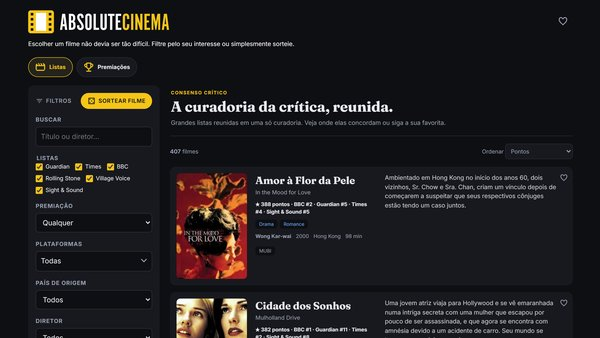
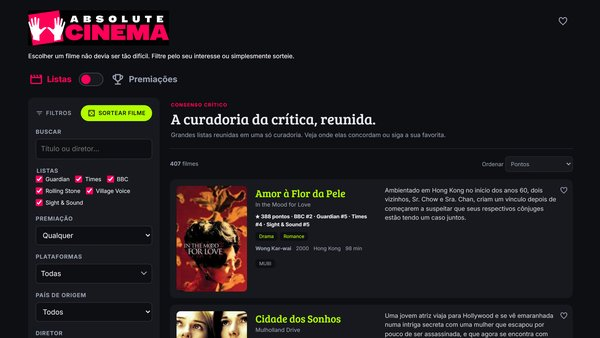
Adiciona PhonoProject e Blague ao portfolio e refina o grid
- Novos itens PhonoProject e Blague na lista, com thumbnails desktop/mobile
- Print do AbsoluteCinema atualizado para o layout atual
- Portfolio vira grid de 2 colunas a partir de 1370px
- Thumbnails passam a preencher a coluna via flex, com aspect-ratio
  preservado e teto na dimensao nativa (600px/200px)
- Borda 1px nos cards do portfolio

diff --git a/style.css b/style.css
@@ -928,7 +928,8 @@ main {
     }
 
     li {
-        padding: 1rem 0;
+        padding: 50px 0;
+        border-bottom: 1px solid rgba(0, 0, 0, .1);
 
         a {
             font-size: 1.25rem;
@@ -937,37 +938,26 @@ main {
 
             .portifolio-item {
                 position: relative;
+                display: flex;
+                align-items: center;
+                gap: 10px;
 
                 >* {
-                    display: inline-block;
-                    vertical-align: middle;
+                    background-color: white;
                     border: 4px solid;
+                    border-radius: 5px;
                 }
 
                 .desktop {
-                    width: 300px;
+                    flex: 3;
                     aspect-ratio: 16/9;
-                    background-color: white;
-                    border-radius: 5px;
+                    max-width: 600px;
                 }
 
                 .mobile {
-                    width: 100px;
+                    flex: 1;
                     aspect-ratio: 1/2;
-                    background-color: white;
-                    border-radius: 5px;
-                    margin-left: 10px;
-                }
-
-                @media (max-width: 450px) {
-                    .desktop {
-                        width: 200px;
-                    }
-
-                    .mobile {
-                        width: 67px;
-                        margin-left: unset;
-                    }
+                    max-width: 200px;
                 }
             }
 
@@ -980,6 +970,16 @@ main {
 
     @media (max-width: 450px) {
         text-align: center;
+    }
+
+    @media (min-width: 1370px) {
+        display: grid;
+        grid-template-columns: 1fr 1fr;
+        gap: 80px;
+        li {
+            padding: 0;
+            border: none;
+        }
     }
 }
 

diff --git a/index.html b/index.html
@@ -247,6 +247,24 @@
                         <span>AbsoluteCinema</span>
                     </a>
                 </li>
+                <li>
+                    <a href="https://rafaortman.github.io/phonoproject/" target="_blank">
+                        <div class="portifolio-item">
+                            <div class="desktop" style="background:url('img/phonoproject-desktop.jpg') top center/cover"></div>
+                            <div class="mobile" style="background:url('img/phonoproject-mobile.jpg') top center/cover"></div>
+                        </div>
+                        <span>PhonoProject</span>
+                    </a>
+                </li>
+                <li>
+                    <a href="https://blague.com.br/" target="_blank">
+                        <div class="portifolio-item">
+                            <div class="desktop" style="background:url('img/blague-desktop.jpg') top center/cover"></div>
+                            <div class="mobile" style="background:url('img/blague-mobile.jpg') top center/cover"></div>
+                        </div>
+                        <span>Blague</span>
+                    </a>
+                </li>
             </ul>
         </section>
         

diff --git a/tools/portfolio-shots.py b/tools/portfolio-shots.py
@@ -32,6 +32,8 @@ ITEMS = [
     ("ursulatautz",   "https://ursulatautz.com/"),
     ("styleguide",    "https://rafaortman.github.io/styleguide/"),
     ("absolutecinema","https://rafaortman.github.io/absolutecinema/"),
+    ("phonoproject",  "https://rafaortman.github.io/phonoproject/"),
+    ("blague",        "https://blague.com.br/"),
 ]
 
 DESKTOP = {"target": (600, 338), "viewport": {"width": 1280, "height": 720},
